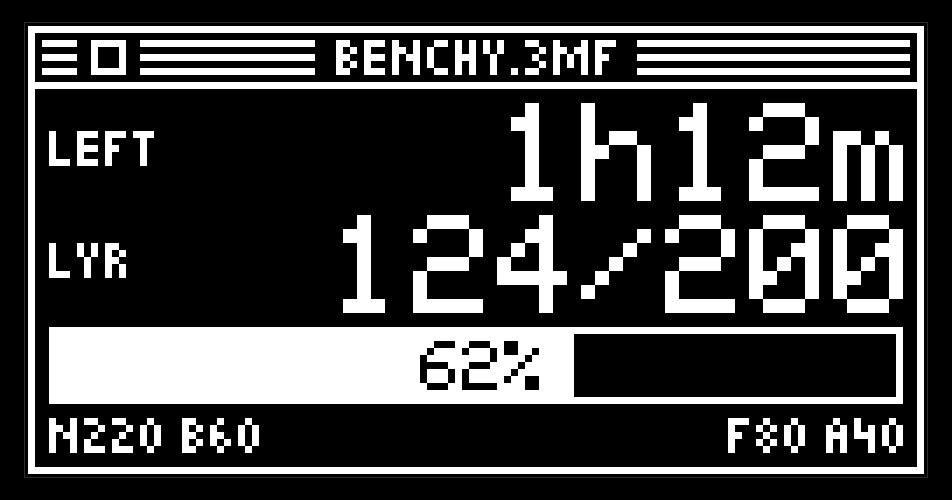
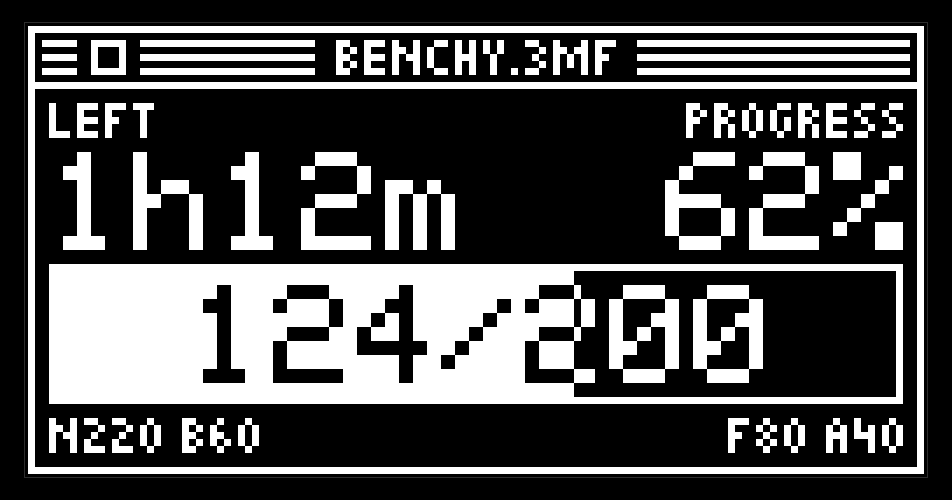
Move time and percent to the top corners of the Bambu screen
Time left and percent now sit in the top corners, label over value, and
the bar grows to 20 px with the layer count in large type inside it.
Paused and preparing keep their state word in the bar, so the layer count
is hidden in those two states.

Idle follows the same layout with nozzle and bed in the corners. State
words are uppercase because lowercase descenders touched the bar border
at the larger size. The harness gains a scene for 1999/2000 layers.

Changed region(s): [[0.0305, 0.18, 0.9748, 0.78]]

diff --git a/TinytoshESP32/ScreenBambu.cpp b/TinytoshESP32/ScreenBambu.cpp
@@ -24,48 +24,61 @@ String formatTimeLeft(int mins) {
   return String(mins / 60) + "h" + (rest < 10 ? "0" : "") + String(rest) + "m";
 }
 
-void drawRow(Ui::Canvas& c, const String& label, const String& value, int y) {
-  c.text(label, 0, y + 4, Ui::FONT_SMALL);
-  c.textRight(value, c.w, y, Ui::FONT_LARGE);
+const int LABEL_Y = 0;
+const int VALUE_Y = 7;
+const int BAR_Y = 23;
+const int BAR_H = 20;
+const int FOOTER_Y = 45;
+
+void drawLeftStat(Ui::Canvas& c, const String& label, const String& value) {
+  c.text(label, 0, LABEL_Y, Ui::FONT_SMALL);
+  c.text(value, 0, VALUE_Y, Ui::FONT_LARGE);
 }
 
-void drawTempRow(Ui::Canvas& c, const String& label, float degrees, int y) {
+void drawRightStat(Ui::Canvas& c, const String& label, const String& value) {
+  c.textRight(label, c.w, LABEL_Y, Ui::FONT_SMALL);
+  c.textRight(value, c.w, VALUE_Y, Ui::FONT_LARGE);
+}
+
+void drawTemp(Ui::Canvas& c, const String& label, float degrees, bool alignRight) {
   const String value = String((int)round(degrees));
-  c.text(label, 0, y + 4, Ui::FONT_SMALL);
-  c.textWithMark(value, c.w - c.textWidth(value, Ui::FONT_LARGE) - 5, y, Ui::FONT_LARGE, degree_icon_small, 4, 4);
+  const int x = alignRight ? c.w - c.textWidth(value, Ui::FONT_LARGE) - 5 : 0;
+  if (alignRight) c.textRight(label, c.w, LABEL_Y, Ui::FONT_SMALL);
+  else c.text(label, 0, LABEL_Y, Ui::FONT_SMALL);
+  c.textWithMark(value, x, VALUE_Y, Ui::FONT_LARGE, degree_icon_small, 4, 4);
 }
 
-void drawProgress(Ui::Canvas& c, const String& label, int percent, int y) {
+void drawProgress(Ui::Canvas& c, const String& label, int percent) {
   percent = percent < 0 ? 0 : percent > 100 ? 100 : percent;
   Ui::Group bar("progress bar");
-  c.rect(0, y, c.w, 11);
-  c.textCentered(label, c.w / 2, y + 2);
-  // Fills past the digits' height, so inverted digits keep a lit row above and below them.
-  c.invert(1, y + 1, (c.w - 2) * percent / 100, 9);
+  c.rect(0, BAR_Y, c.w, BAR_H);
+  c.textCentered(label, c.w / 2, BAR_Y + 3, Ui::FONT_LARGE);
+  // Fills past the digits' height, so inverted digits keep lit rows above and below them.
+  c.invert(1, BAR_Y + 1, (c.w - 2) * percent / 100, BAR_H - 2);
 }
 
-void drawFans(Ui::Canvas& c, const BambuData& data, int y) {
-  c.textRight("F" + String(data.fan_part) + " A" + String(data.fan_aux), c.w, y, Ui::FONT_SMALL);
+void drawFans(Ui::Canvas& c, const BambuData& data) {
+  c.textRight("F" + String(data.fan_part) + " A" + String(data.fan_aux), c.w, FOOTER_Y, Ui::FONT_SMALL);
 }
 
 void drawIdle(Ui::Canvas& c, const BambuData& data) {
-  drawTempRow(c, "Noz", data.nozzle_temp, 0);
-  drawTempRow(c, "Bed", data.bed_temp, 16);
-  drawProgress(c, "Idle", 0, 32);
-  drawFans(c, data, 45);
+  drawTemp(c, "Noz", data.nozzle_temp, false);
+  drawTemp(c, "Bed", data.bed_temp, true);
+  drawProgress(c, "IDLE", 0);
+  drawFans(c, data);
 }
 
 void drawJob(Ui::Canvas& c, const BambuData& data, Phase phase) {
-  if (phase == PHASE_FINISHED) drawRow(c, "Print", "Done", 0);
-  else if (phase == PHASE_FAILED) drawRow(c, "Print", "Failed", 0);
-  else drawRow(c, "Left", formatTimeLeft(data.time_left), 0);
-  drawRow(c, "Lyr", String(data.layer) + "/" + String(data.total_layers), 16);
+  if (phase == PHASE_FINISHED) drawLeftStat(c, "Print", "DONE");
+  else if (phase == PHASE_FAILED) drawLeftStat(c, "Print", "FAILED");
+  else drawLeftStat(c, "Left", formatTimeLeft(data.time_left));
+  drawRightStat(c, "Progress", String(data.progress) + "%");
 
-  const String percent = String(data.progress) + "%";
-  drawProgress(c, phase == PHASE_PREPARING ? String("Preparing") : phase == PHASE_PAUSED ? String("Paused") : percent, data.progress, 32);
+  const String layers = String(data.layer) + "/" + String(data.total_layers);
+  drawProgress(c, phase == PHASE_PREPARING ? String("PREPARING") : phase == PHASE_PAUSED ? String("PAUSED") : layers, data.progress);
 
-  c.text("N" + String((int)round(data.nozzle_temp)) + " B" + String((int)round(data.bed_temp)), 0, 45, Ui::FONT_SMALL);
-  drawFans(c, data, 45);
+  c.text("N" + String((int)round(data.nozzle_temp)) + " B" + String((int)round(data.bed_temp)), 0, FOOTER_Y, Ui::FONT_SMALL);
+  drawFans(c, data);
 }
 
 String jobTitle(const BambuData& data) {

diff --git a/TinytoshSimulator/ScreenBambu.cpp b/TinytoshSimulator/ScreenBambu.cpp
@@ -24,48 +24,61 @@ String formatTimeLeft(int mins) {
   return String(mins / 60) + "h" + (rest < 10 ? "0" : "") + String(rest) + "m";
 }
 
-void drawRow(Ui::Canvas& c, const String& label, const String& value, int y) {
-  c.text(label, 0, y + 4, Ui::FONT_SMALL);
-  c.textRight(value, c.w, y, Ui::FONT_LARGE);
+const int LABEL_Y = 0;
+const int VALUE_Y = 7;
+const int BAR_Y = 23;
+const int BAR_H = 20;
+const int FOOTER_Y = 45;
+
+void drawLeftStat(Ui::Canvas& c, const String& label, const String& value) {
+  c.text(label, 0, LABEL_Y, Ui::FONT_SMALL);
+  c.text(value, 0, VALUE_Y, Ui::FONT_LARGE);
 }
 
-void drawTempRow(Ui::Canvas& c, const String& label, float degrees, int y) {
+void drawRightStat(Ui::Canvas& c, const String& label, const String& value) {
+  c.textRight(label, c.w, LABEL_Y, Ui::FONT_SMALL);
+  c.textRight(value, c.w, VALUE_Y, Ui::FONT_LARGE);
+}
+
+void drawTemp(Ui::Canvas& c, const String& label, float degrees, bool alignRight) {
   const String value = String((int)round(degrees));
-  c.text(label, 0, y + 4, Ui::FONT_SMALL);
-  c.textWithMark(value, c.w - c.textWidth(value, Ui::FONT_LARGE) - 5, y, Ui::FONT_LARGE, degree_icon_small, 4, 4);
+  const int x = alignRight ? c.w - c.textWidth(value, Ui::FONT_LARGE) - 5 : 0;
+  if (alignRight) c.textRight(label, c.w, LABEL_Y, Ui::FONT_SMALL);
+  else c.text(label, 0, LABEL_Y, Ui::FONT_SMALL);
+  c.textWithMark(value, x, VALUE_Y, Ui::FONT_LARGE, degree_icon_small, 4, 4);
 }
 
-void drawProgress(Ui::Canvas& c, const String& label, int percent, int y) {
+void drawProgress(Ui::Canvas& c, const String& label, int percent) {
   percent = percent < 0 ? 0 : percent > 100 ? 100 : percent;
   Ui::Group bar("progress bar");
-  c.rect(0, y, c.w, 11);
-  c.textCentered(label, c.w / 2, y + 2);
-  // Fills past the digits' height, so inverted digits keep a lit row above and below them.
-  c.invert(1, y + 1, (c.w - 2) * percent / 100, 9);
+  c.rect(0, BAR_Y, c.w, BAR_H);
+  c.textCentered(label, c.w / 2, BAR_Y + 3, Ui::FONT_LARGE);
+  // Fills past the digits' height, so inverted digits keep lit rows above and below them.
+  c.invert(1, BAR_Y + 1, (c.w - 2) * percent / 100, BAR_H - 2);
 }
 
-void drawFans(Ui::Canvas& c, const BambuData& data, int y) {
-  c.textRight("F" + String(data.fan_part) + " A" + String(data.fan_aux), c.w, y, Ui::FONT_SMALL);
+void drawFans(Ui::Canvas& c, const BambuData& data) {
+  c.textRight("F" + String(data.fan_part) + " A" + String(data.fan_aux), c.w, FOOTER_Y, Ui::FONT_SMALL);
 }
 
 void drawIdle(Ui::Canvas& c, const BambuData& data) {
-  drawTempRow(c, "Noz", data.nozzle_temp, 0);
-  drawTempRow(c, "Bed", data.bed_temp, 16);
-  drawProgress(c, "Idle", 0, 32);
-  drawFans(c, data, 45);
+  drawTemp(c, "Noz", data.nozzle_temp, false);
+  drawTemp(c, "Bed", data.bed_temp, true);
+  drawProgress(c, "IDLE", 0);
+  drawFans(c, data);
 }
 
 void drawJob(Ui::Canvas& c, const BambuData& data, Phase phase) {
-  if (phase == PHASE_FINISHED) drawRow(c, "Print", "Done", 0);
-  else if (phase == PHASE_FAILED) drawRow(c, "Print", "Failed", 0);
-  else drawRow(c, "Left", formatTimeLeft(data.time_left), 0);
-  drawRow(c, "Lyr", String(data.layer) + "/" + String(data.total_layers), 16);
+  if (phase == PHASE_FINISHED) drawLeftStat(c, "Print", "DONE");
+  else if (phase == PHASE_FAILED) drawLeftStat(c, "Print", "FAILED");
+  else drawLeftStat(c, "Left", formatTimeLeft(data.time_left));
+  drawRightStat(c, "Progress", String(data.progress) + "%");
 
-  const String percent = String(data.progress) + "%";
-  drawProgress(c, phase == PHASE_PREPARING ? String("Preparing") : phase == PHASE_PAUSED ? String("Paused") : percent, data.progress, 32);
+  const String layers = String(data.layer) + "/" + String(data.total_layers);
+  drawProgress(c, phase == PHASE_PREPARING ? String("PREPARING") : phase == PHASE_PAUSED ? String("PAUSED") : layers, data.progress);
 
-  c.text("N" + String((int)round(data.nozzle_temp)) + " B" + String((int)round(data.bed_temp)), 0, 45, Ui::FONT_SMALL);
-  drawFans(c, data, 45);
+  c.text("N" + String((int)round(data.nozzle_temp)) + " B" + String((int)round(data.bed_temp)), 0, FOOTER_Y, Ui::FONT_SMALL);
+  drawFans(c, data);
 }
 
 String jobTitle(const BambuData& data) {

diff --git a/tools/ui-harness/main.cpp b/tools/ui-harness/main.cpp
@@ -304,6 +304,7 @@ static const Scenario SCENARIOS[] = {
   {"media-no-album", SCREEN_PC_MEDIA, [](AppState& s) { s.media.album = ""; s.media.name = "A song with a fairly long name that wraps to three lines"; }},
   {"bambu-printing", SCREEN_BAMBU, [](AppState&) {}},
   {"bambu-long-file", SCREEN_BAMBU, [](AppState& s) { s.bambu.file_name = "articulated_dragon_v12_final_supports.gcode.3mf"; s.bambu.progress = 100; s.bambu.time_left = 1440; s.bambu.layer = 1999; s.bambu.total_layers = 2000; s.bambu.fan_part = 100; s.bambu.fan_aux = 100; s.bambu.nozzle_temp = 300; s.bambu.nozzle_target = 300; s.bambu.bed_temp = 110; s.bambu.bed_target = 110; }},
+  {"bambu-many-layers", SCREEN_BAMBU, [](AppState& s) { s.bambu.layer = 1999; s.bambu.total_layers = 2000; }},
   {"bambu-preparing", SCREEN_BAMBU, [](AppState& s) { s.bambu.status = "PREPARE"; s.bambu.progress = 0; s.bambu.layer = 0; s.bambu.time_left = 72; }},
   {"bambu-paused", SCREEN_BAMBU, [](AppState& s) { s.bambu.status = "PAUSE"; }},
   {"bambu-half", SCREEN_BAMBU, [](AppState& s) { s.bambu.progress = 50; s.bambu.layer = 100; s.bambu.time_left = 95; }},
